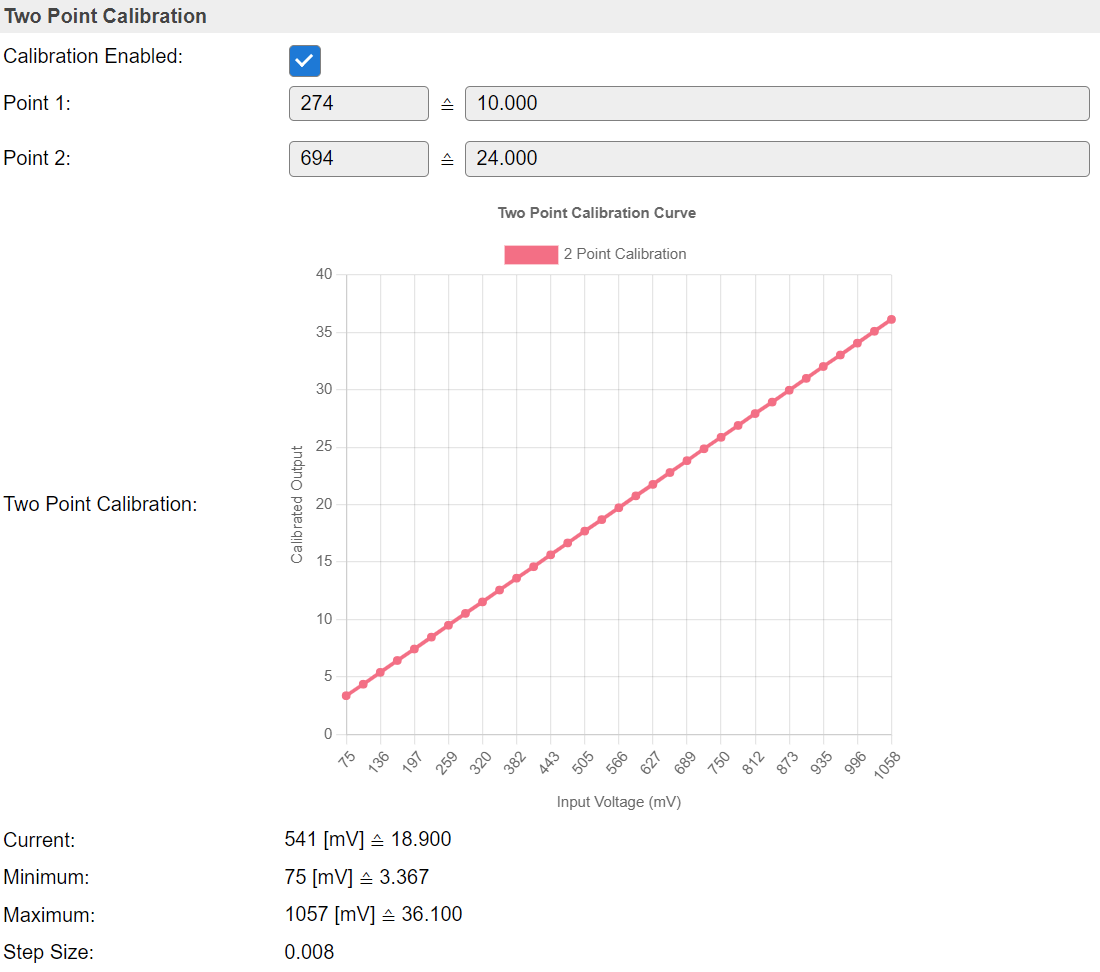
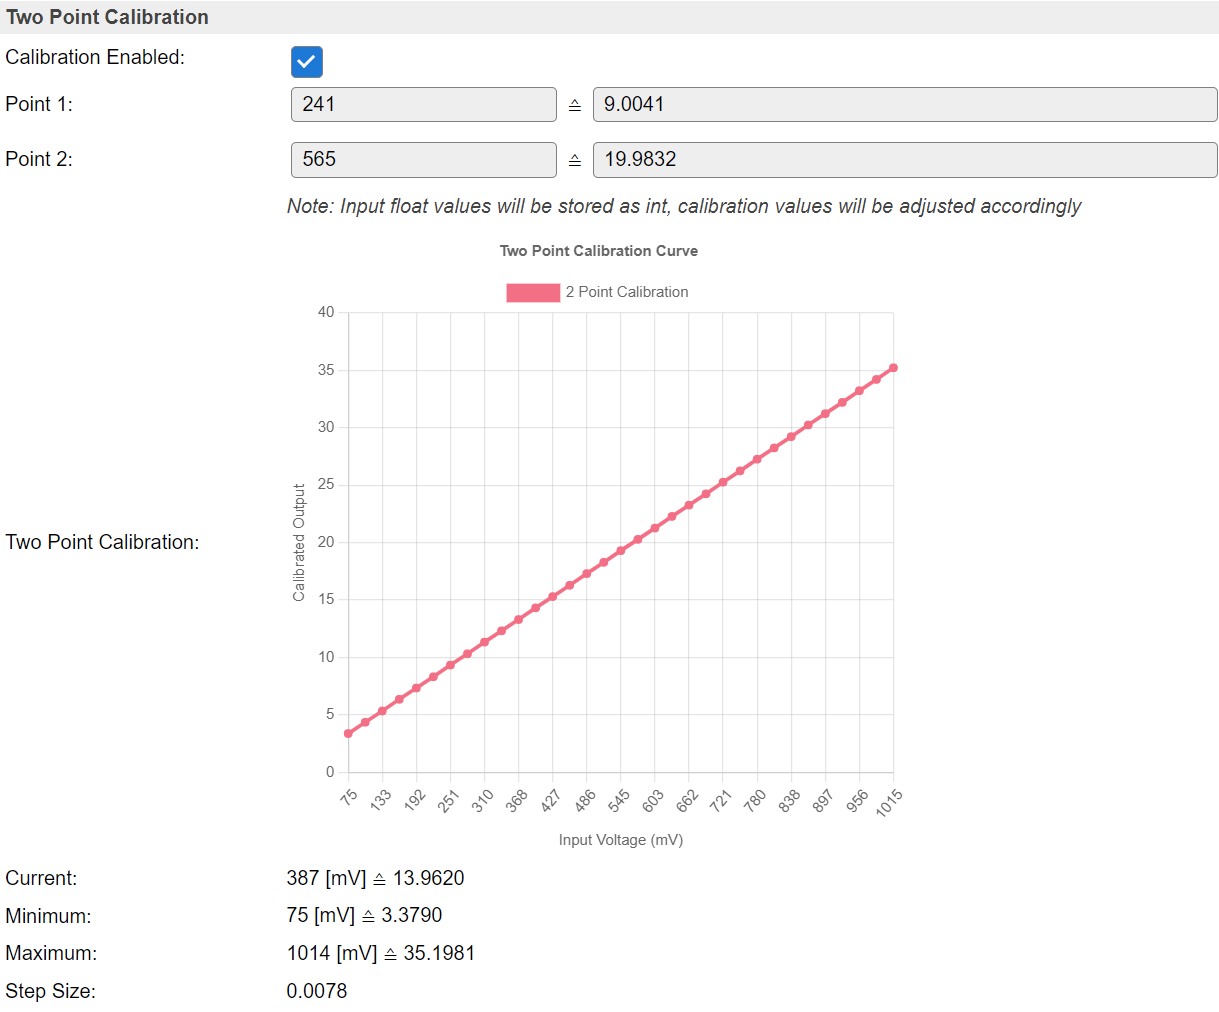
[ADC] Update docs

diff --git a/docs/source/Plugin/P002.rst b/docs/source/Plugin/P002.rst
@@ -152,6 +152,27 @@ The values below the chart  only taking the Two Point Calibration into account.
 * The minimum and maximum values are based on the maximum range which can be measured with the set attenuation.
 * The step size is the minimal step size of the output value.
 
+.. note:: It is possible to enter a floating point value as "ADC" input for the 2-point calibration.
+          Since this value is stored as an integer value, the calibrated values will be adjusted accordingly to still represent the same calibration curve.
+
+It is best to turn off the 2-point calibration and let the ESP run for a while with a stable voltage applied.
+The measured value (either in raw ADC or in mV on ESP32 with Factory Calibration enabled) can then be averaged over a longer period to get the most accurate value.
+
+For example the system is measuring the voltage over a 10k resistor (with another 330k resistor in series) and a diode.
+This means there is some voltage drop over de diode and thus we need 2 calibration sets.
+The attenuation is set to 0dB on an ESP32.
+
+Measured with 9.00V applied and 20.00V applied:
+
+* 240.88 mV => 9
+* 565.4957 mV => 20
+
+When entered in the 2-point calibration fields, the page will reload with these converted values:
+
+* 241 mV => 9.0041
+* 565 mV => 19.9832
+
+
 
 Multipoint Processing
 ---------------------
